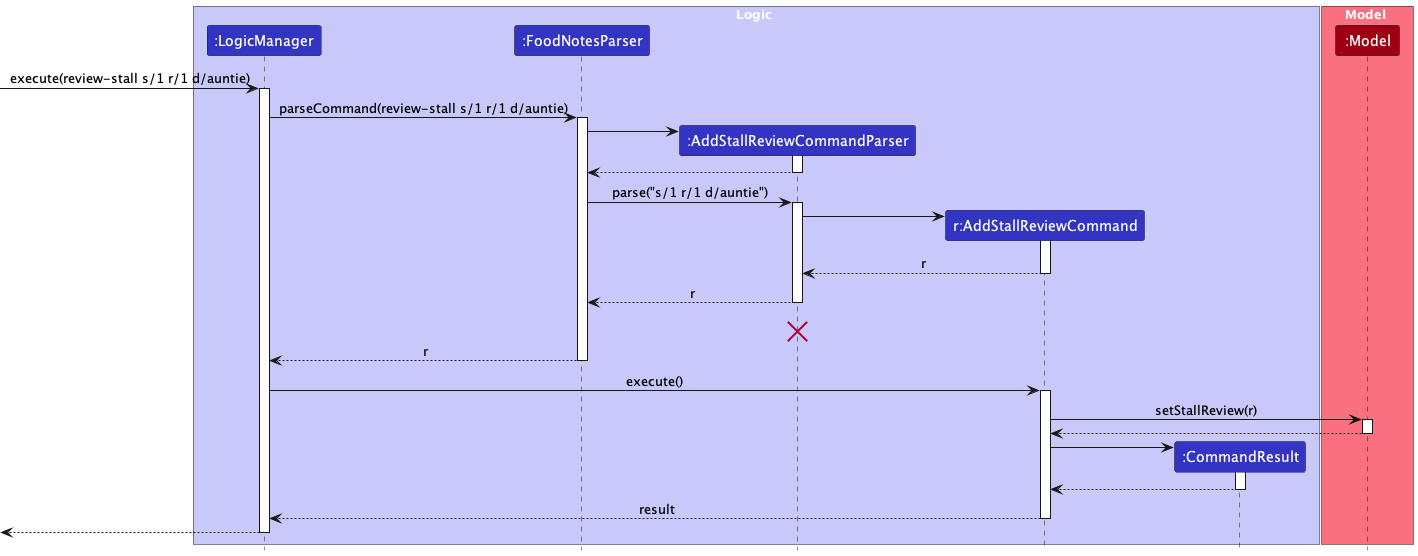
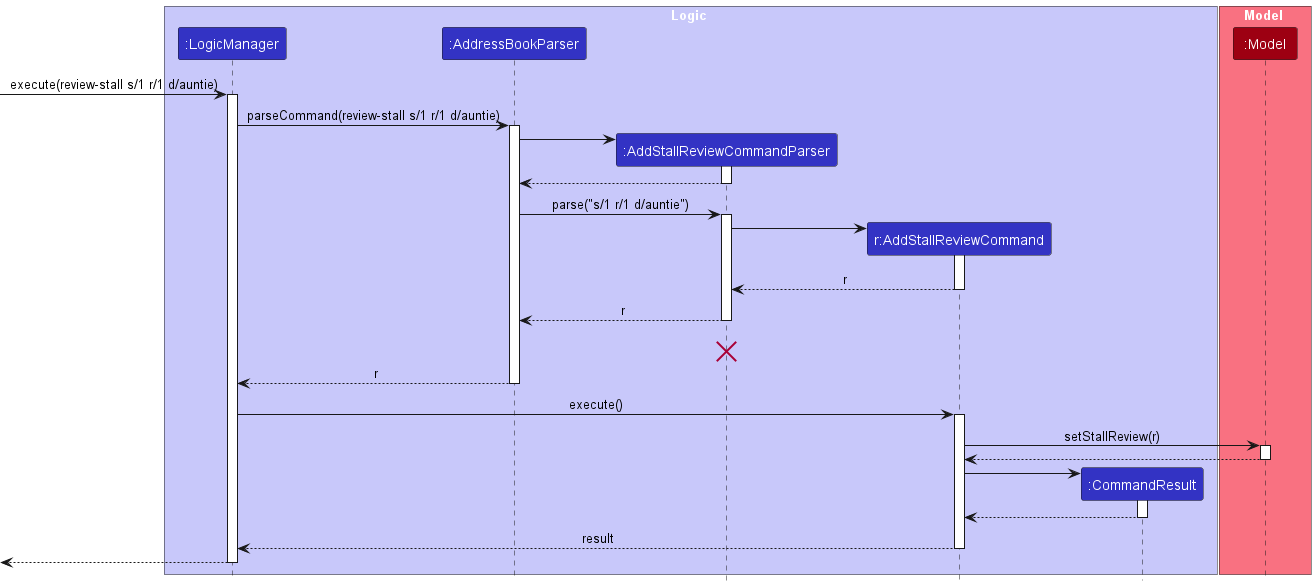
Edit DG

diff --git a/docs/DeveloperGuide.md b/docs/DeveloperGuide.md
@@ -115,7 +115,7 @@ Here are the other classes in `Logic` (omitted from the class diagram above) tha
 <img src="images/ParserClasses.png" width="600"/>
 
 How the parsing works:
-* When called upon to parse a user command, the `AddressBookParser` class creates an `XYZCommandParser` (`XYZ` is a placeholder for the specific command name e.g., `AddCommandParser`) which uses the other classes shown above to parse the user command and create a `XYZCommand` object (e.g., `AddCommand`) which the `FoodNotesParser` returns back as a `Command` object.
+* When called upon to parse a user command, the `AddressBookParser` class creates an `XYZCommandParser` (`XYZ` is a placeholder for the specific command name e.g., `AddCommandParser`) which uses the other classes shown above to parse the user command and create a `XYZCommand` object (e.g., `AddCommand`) which the `AddressBookParser` returns back as a `Command` object.
 * All `XYZCommandParser` classes (e.g., `AddCommandParser`, `DeleteCommandParser`, ...) inherit from the `Parser` interface so that they can be treated similarly where possible e.g, during testing.
 
 ### Model component
@@ -190,9 +190,6 @@ The following sequence diagram shows how the add-item operation works:
 
 ![AddItemSequenceDiagram](images/AddItemSequenceDiagram.png)
 
-<div markdown="span" class="alert alert-info">:information_source: **Note:** The lifeline for `AddItemCommand` should end at the destroy marker (X) but due to a limitation of PlantUML, the lifeline reaches the end of diagram.
-
-</div>
 
 The `delete-item` command does the opposite — it calls `Model#deleteItem()`, which deletes the specified item from its specified stall.
 
@@ -304,12 +301,12 @@ The `updateFilteredStallListPredicate` is used to filter the list of stalls in F
 **Current Implementation:**
 * **Current Issue:** Users can view a filtered list of stalls when they use commands such as `find-by-location` and `find-by-item`. In the case where there is only 1 stall in the list and the user performs a stall deletion, the user will see a page showing an empty list of stall. This might cause confusion as the user might think that all the stalls are deleted.
 * **Example:**
-1. User entered `find-by-location Deck`.
-2. A list of stall containing one stall is displayed.
-3. User entered `view-stall s/1` to view the details of the stall.
-4. User entered `delete-stall s/1` to remove the stall from FoodNotes.
-5. List of stall with 0 stall is displayed.
-6. The list of stall is still filtered by location which is the Deck, but it might give the wrong impression that there is 0 stall in the list now.
+1. User enters `find-by-location Deck`.
+2. A list of stalls containing one stall is displayed.
+3. User enters `view-stall s/1` to view the details of the stall.
+4. User enters `delete-stall s/1` to remove the stall from FoodNotes.
+5. List of stalls with no stalls is displayed.
+6. The list of stalls is still filtered by location which is the Deck, but it might give the wrong impression that there are no more stalls in FoodNotes.
 
 **Proposed Solution:**
 
@@ -339,7 +336,7 @@ We propose to enhance the filter stalls commands to display the list of stalls w
 
 Priorities: High (must have) - `* * *`, Medium (nice to have) - `* *`, Low (unlikely to have) - `*`
 
-| Priority | As a …                            | I want to …                                                              | So that I can…                                                    |
+| Priority | As a...                           | I want to...                                                             | So that I can...                                                  |
 |----------|-----------------------------------|--------------------------------------------------------------------------|-------------------------------------------------------------------|
 | `* * *`  | new user                          | add reviews to stalls                                                    | remember what I think about the food stall.                       |
 | `* * *`  | new user                          | delete reviews from stalls                                               | delete review of the food stall if I change my mind about it      |
@@ -365,7 +362,7 @@ Priorities: High (must have) - `* * *`, Medium (nice to have) - `* *`, Low (unli
 | `*`      | user interested in sustainability | identify local ingredients                                               | support environmentally conscious dining choices                  |
 | `*`      | student always on the move        | receive alerts about pop ups                                             | seize food opportunities wherever I go.                           |
 | `*`      | Muslim student                    | know which halal certified                                               | eat halal food.                                                   |
-*{More to be added}*
+
 
 ### Use cases
 
@@ -572,9 +569,9 @@ testers are expected to do more *exploratory* testing.
    Expected: Pasta Express located in Deck is added to the list. The result display shows a success message. The list of the stalls on the left panel is updated.
 
 1. Test case: `add-stall n/Indian Shop`<br>
-   Expected: No stall is deleted. Error details shown in the result display.
+   Expected: No stall is added. Error details shown in the result display.
 
-1. Other incorrect add commands to try: `add-stall`, `add-stall n/abc l/Deck l/Frontier`, `...` (Stall exists at multiple locations)<br>
+1. Other incorrect add commands to try: `add-stall`, `add-stall n/abc l/Deck l/Frontier`, `...` <br>
    Expected: Similar to previous.
 
 ### Deleting a stall
@@ -602,7 +599,7 @@ testers are expected to do more *exploratory* testing.
      Expected: Result display shows a success message. Details of the stall is shown on the left panel.
 
   1. Test case: `view-stall s/0`<br>
-     Expected: No stall is deleted. Error details shown in the result display.
+     Expected: No stall is shown. Error details shown in the result display.
 
   1. Other incorrect view commands to try: `view-stall`, `view-stall s/x`, `...` (where x is larger than the list size)<br>
      Expected: Similar to previous.
@@ -617,7 +614,7 @@ testers are expected to do more *exploratory* testing.
      Expected: The result display shows a success message. The stall details in the right panel is updated with the star ratings and review descriptions.
 
   1. Test case: `review-stall s/1 r/4`<br>
-     Expected: No stall review is added. Error details shown in the result display.
+     Expected: No stall description is added. Error details shown in the result display.
 
   1. Other incorrect review commands to try: `review-stall s/1 r/3 r/5`(duplicate prefix), `review-stall s/1 d/xyz`, `...` (missing rating)<br>
      Expected: Similar to previous.
@@ -638,19 +635,19 @@ testers are expected to do more *exploratory* testing.
    1. Other incorrect add commands to try: `add-item`, `add-item s/x n/x p/1.00`, `...` (where x is larger than the list size)<br>
       Expected: Similar to previous.
 
-### Deleting a menu item to a stall
+### Deleting a menu item from a stall
 
 1. Deleting a menu item while the stall details are shown
 
   1. Prerequisites: View the stall details with the `view-stall` command. The menu items of the stall is displayed in the left panel.
 
-  1. Test case: `delete-item s/1`<br>
+  1. Test case: `delete-item s/1 i/1`<br>
      Expected: First item is deleted from the list. Details of the deleted item shown in the result display. List of items in the left panel is updated.
 
-  1. Test case: `delete-item s/0`<br>
+  1. Test case: `delete-item s/0 i/1`<br>
      Expected: No item is deleted. Error details shown in the result display.
 
-  1. Other incorrect delete commands to try: `delete-item`, `delete-item s/x`, `...` (where x is larger than the list size)<br>
+  1. Other incorrect delete commands to try: `delete-item`, `delete-item s/1 i/0`, `delete-item s/x i/x`, `...` (where x is larger than the list size)<br>
      Expected: Similar to previous.
 
 ### Viewing a menu item to a stall
@@ -677,8 +674,6 @@ testers are expected to do more *exploratory* testing.
   1. Test case: `sort-stalls-location`<br>
      Expected: Result display shows a success message. The list displayed in the left panel is sorted by alphabetical order based on their location.
 
-  1. Test case: `sort-stalls-location deck`<br>
-     Expected: Stalls are not sorted. Error details shown in the result display.
 
 ### Sorting the stalls by location
 
@@ -689,8 +684,6 @@ testers are expected to do more *exploratory* testing.
    1. Test case: `sort-stalls-rating`<br>
       Expected: Result display shows a success message. The list displayed in the left panel is sorted in descending order based on ratings.
 
-   1. Test case: `sort-stalls-rating 1`<br>
-      Expected: Stalls are not sorted. Error details shown in the result display.
 
 ### Sorting the stalls by price
 
@@ -699,10 +692,8 @@ testers are expected to do more *exploratory* testing.
   1. Prerequisites: List all stalls using the `list` command. Multiple stalls in the list.
 
   1. Test case: `sort-stalls-price`<br>
-     Expected: Result display shows a success message. The list displayed in the left panel is sorted in descending order based on ratings.
+     Expected: Result display shows a success message. The list displayed in the left panel is sorted in ascending order based on average price.
 
-  1. Test case: `sort-stalls-price 1.00`<br>
-     Expected: Stalls are not sorted. Error details shown in the result display.
 
 ### Filter stalls by stall name
 
@@ -710,11 +701,11 @@ testers are expected to do more *exploratory* testing.
 
    1. Prerequisites: List all stalls using the `list` command. Multiple stalls in the list.
 
-   1. Test case: `find-by-name Subway`<br>
-      Expected: Result display shows a success message. The list displayed in the left panel contains all the stalls with the name containing the keyword 'Subway'.
+   1. Test case: `find-by-name japanese`<br>
+      Expected: Result display shows a success message. The list displayed in the left panel contains all the stalls with the name containing the keyword 'japanese' (case-insensitive).
 
-   1. Test case: `find-by-name Subway Express`<br>
-       Expected: Result display shows a success message. The list displayed in the left panel contains all the stalls with the name containing the keyword 'Subway' or 'Express'.
+   1. Test case: `find-by-name japanese western`<br>
+       Expected: Result display shows a success message. The list displayed in the left panel contains all the stalls with the name containing the keyword 'japanese' or 'western' (case-insensitive).
 
    1. Other incorrect find commands to try: `find-by-name`
       Expected: No stall is found. Error details shown in the result display.
@@ -725,11 +716,11 @@ testers are expected to do more *exploratory* testing.
 
   1. Prerequisites: List all stalls using the `list` command. Multiple stalls in the list.
 
-  1. Test case: `find-by-location Utown`<br>
-     Expected: Result display shows a success message. The list displayed in the left panel contains all the stalls with the location containing the keyword 'Utown'.
+  1. Test case: `find-by-location utown`<br>
+     Expected: Result display shows a success message. The list displayed in the left panel contains all the stalls with the location containing the keyword 'utown' (case-insensitive).
 
-  1. Test case: `find-by-location Utown Frontier`<br>
-     Expected: Result display shows a success message. The list displayed in the left panel contains all the stalls with the location containing the keyword 'Utown' or 'Frontier'.
+  1. Test case: `find-by-location utown frontier`<br>
+     Expected: Result display shows a success message. The list displayed in the left panel contains all the stalls with the location containing the keyword 'utown' or 'frontier' (case-insensitive).
 
   1. Other incorrect find commands to try: `find-by-location`
      Expected: No stall is found. Error details shown in the result display.
@@ -740,11 +731,11 @@ testers are expected to do more *exploratory* testing.
 
   1. Prerequisites: List all stalls using the `list` command. Multiple stalls in the list.
 
-  1. Test case: `find-by-item Chicken`<br>
-     Expected: Result display shows a success message. The list displayed in the left panel contains all the stalls with the name containing the menu item 'Chicken'.
+  1. Test case: `find-by-item chicken`<br>
+     Expected: Result display shows a success message. The list displayed in the left panel contains all the stalls whose menu items contain the keyword 'chicken' (case-insensitive).
 
-  1. Test case: `find-by-item Chicken Pork`<br>
-     Expected: Result display shows a success message. The list displayed in the left panel contains all the stalls with the name containing the keyword 'Chicken' or 'Pork'.
+  1. Test case: `find-by-item chicken pork`<br>
+     Expected: Result display shows a success message. The list displayed in the left panel contains all the stalls whose menu items contain the keyword 'chicken' or 'pork' (case-insensitive).
 
   1. Other incorrect find commands to try: `find-by-item`
      Expected: No stall is found. Error details shown in the result display.
@@ -763,5 +754,5 @@ testers are expected to do more *exploratory* testing.
 1. Dealing with missing/corrupted data files
 
    1. To simulate a corrupted file, you can edit addressbook.json directly and introduce some texts that does not follow the correct format.
-   2. To fix the issue, delete addressbook.json from the data folder and re-launch the app. FoodNotes will now only contain the original pre-loaded information.
+   2. To reset the preloaded data, delete addressbook.json from the data folder and re-launch the app. FoodNotes will now only contain the original pre-loaded information.
 
